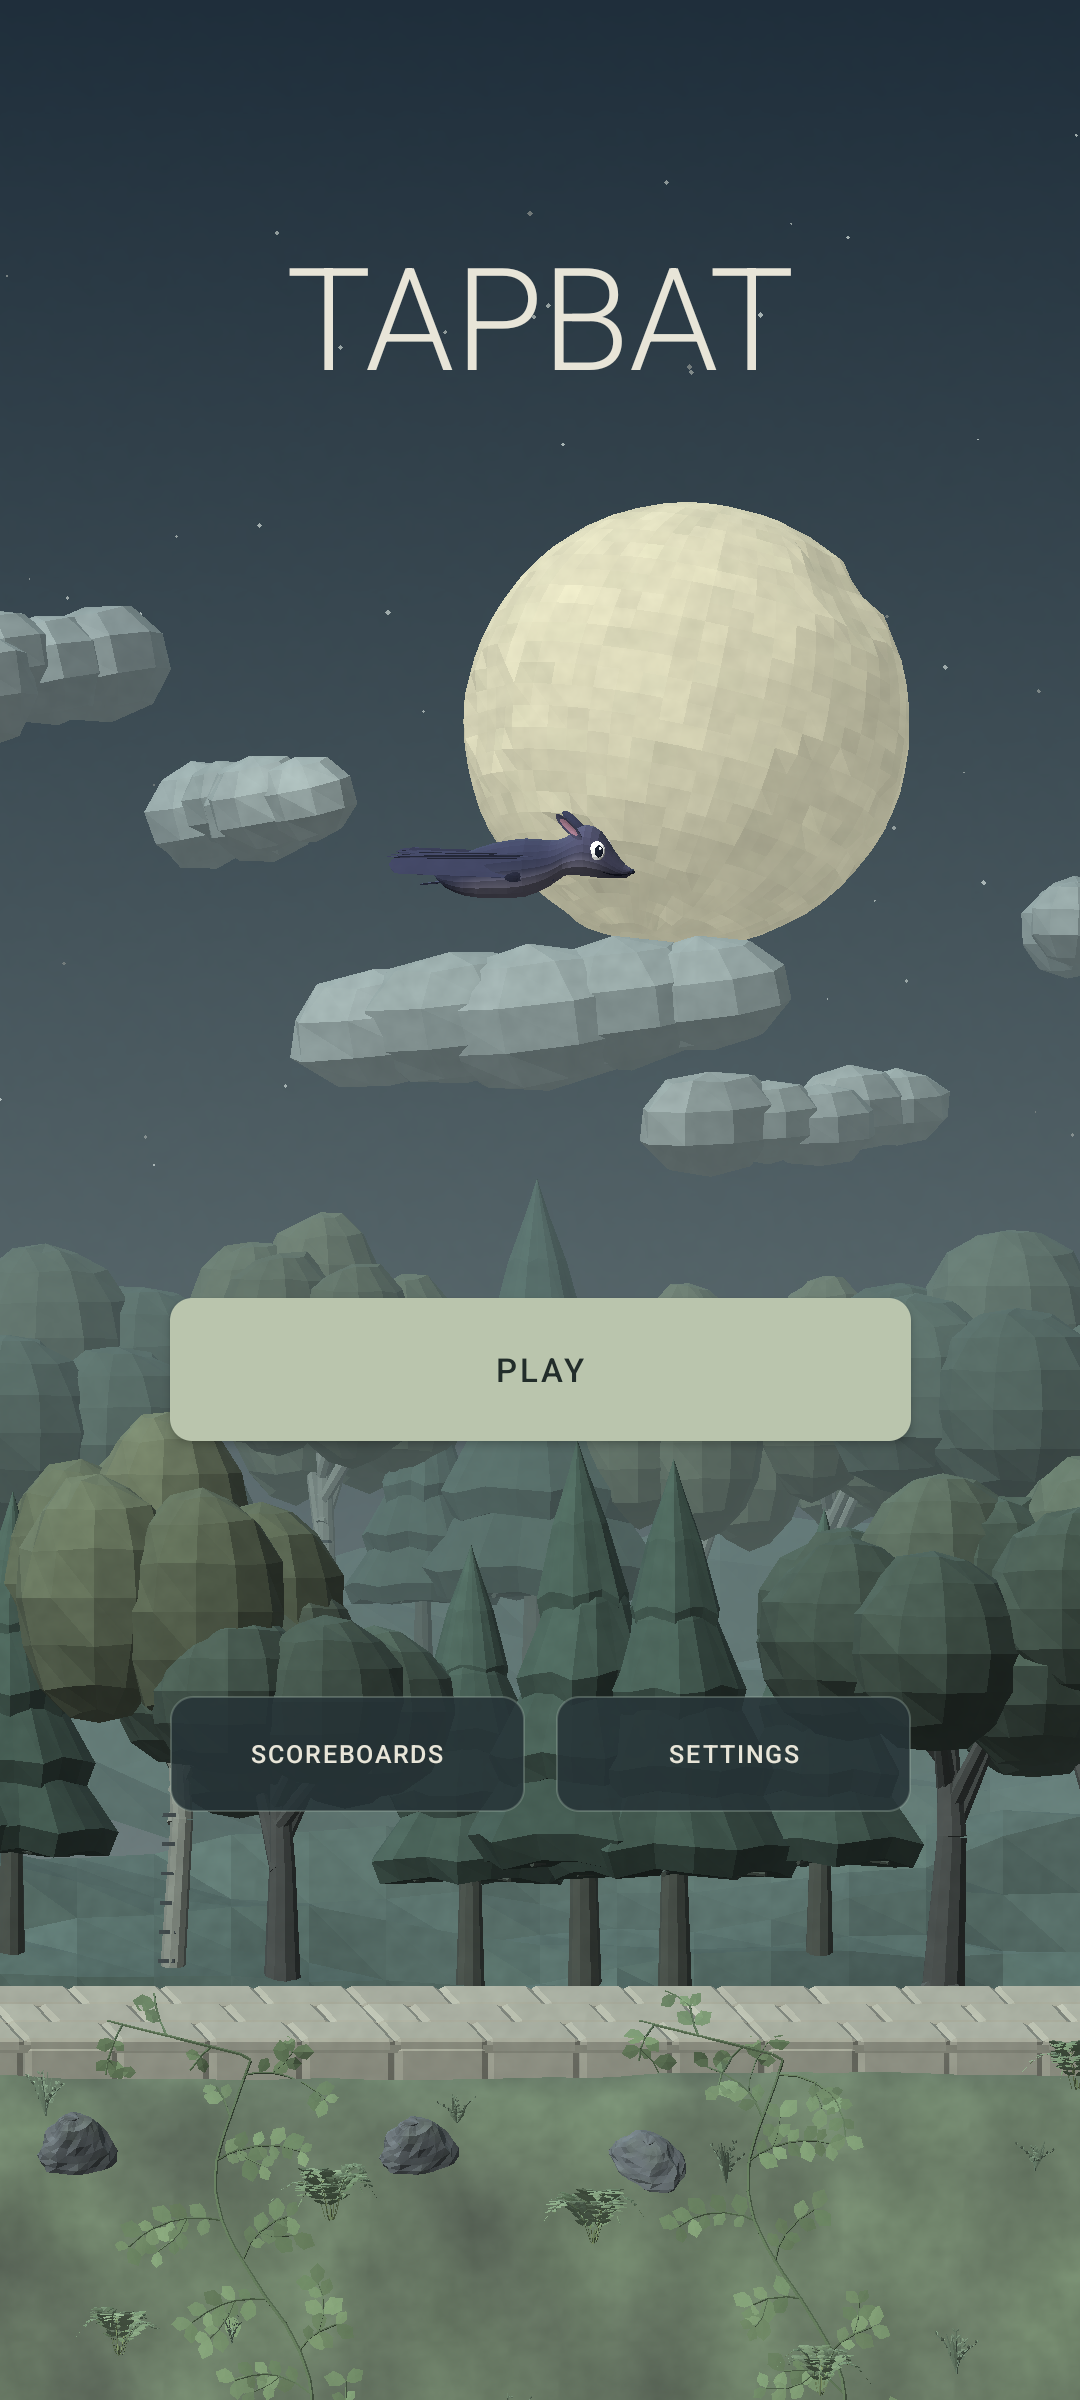
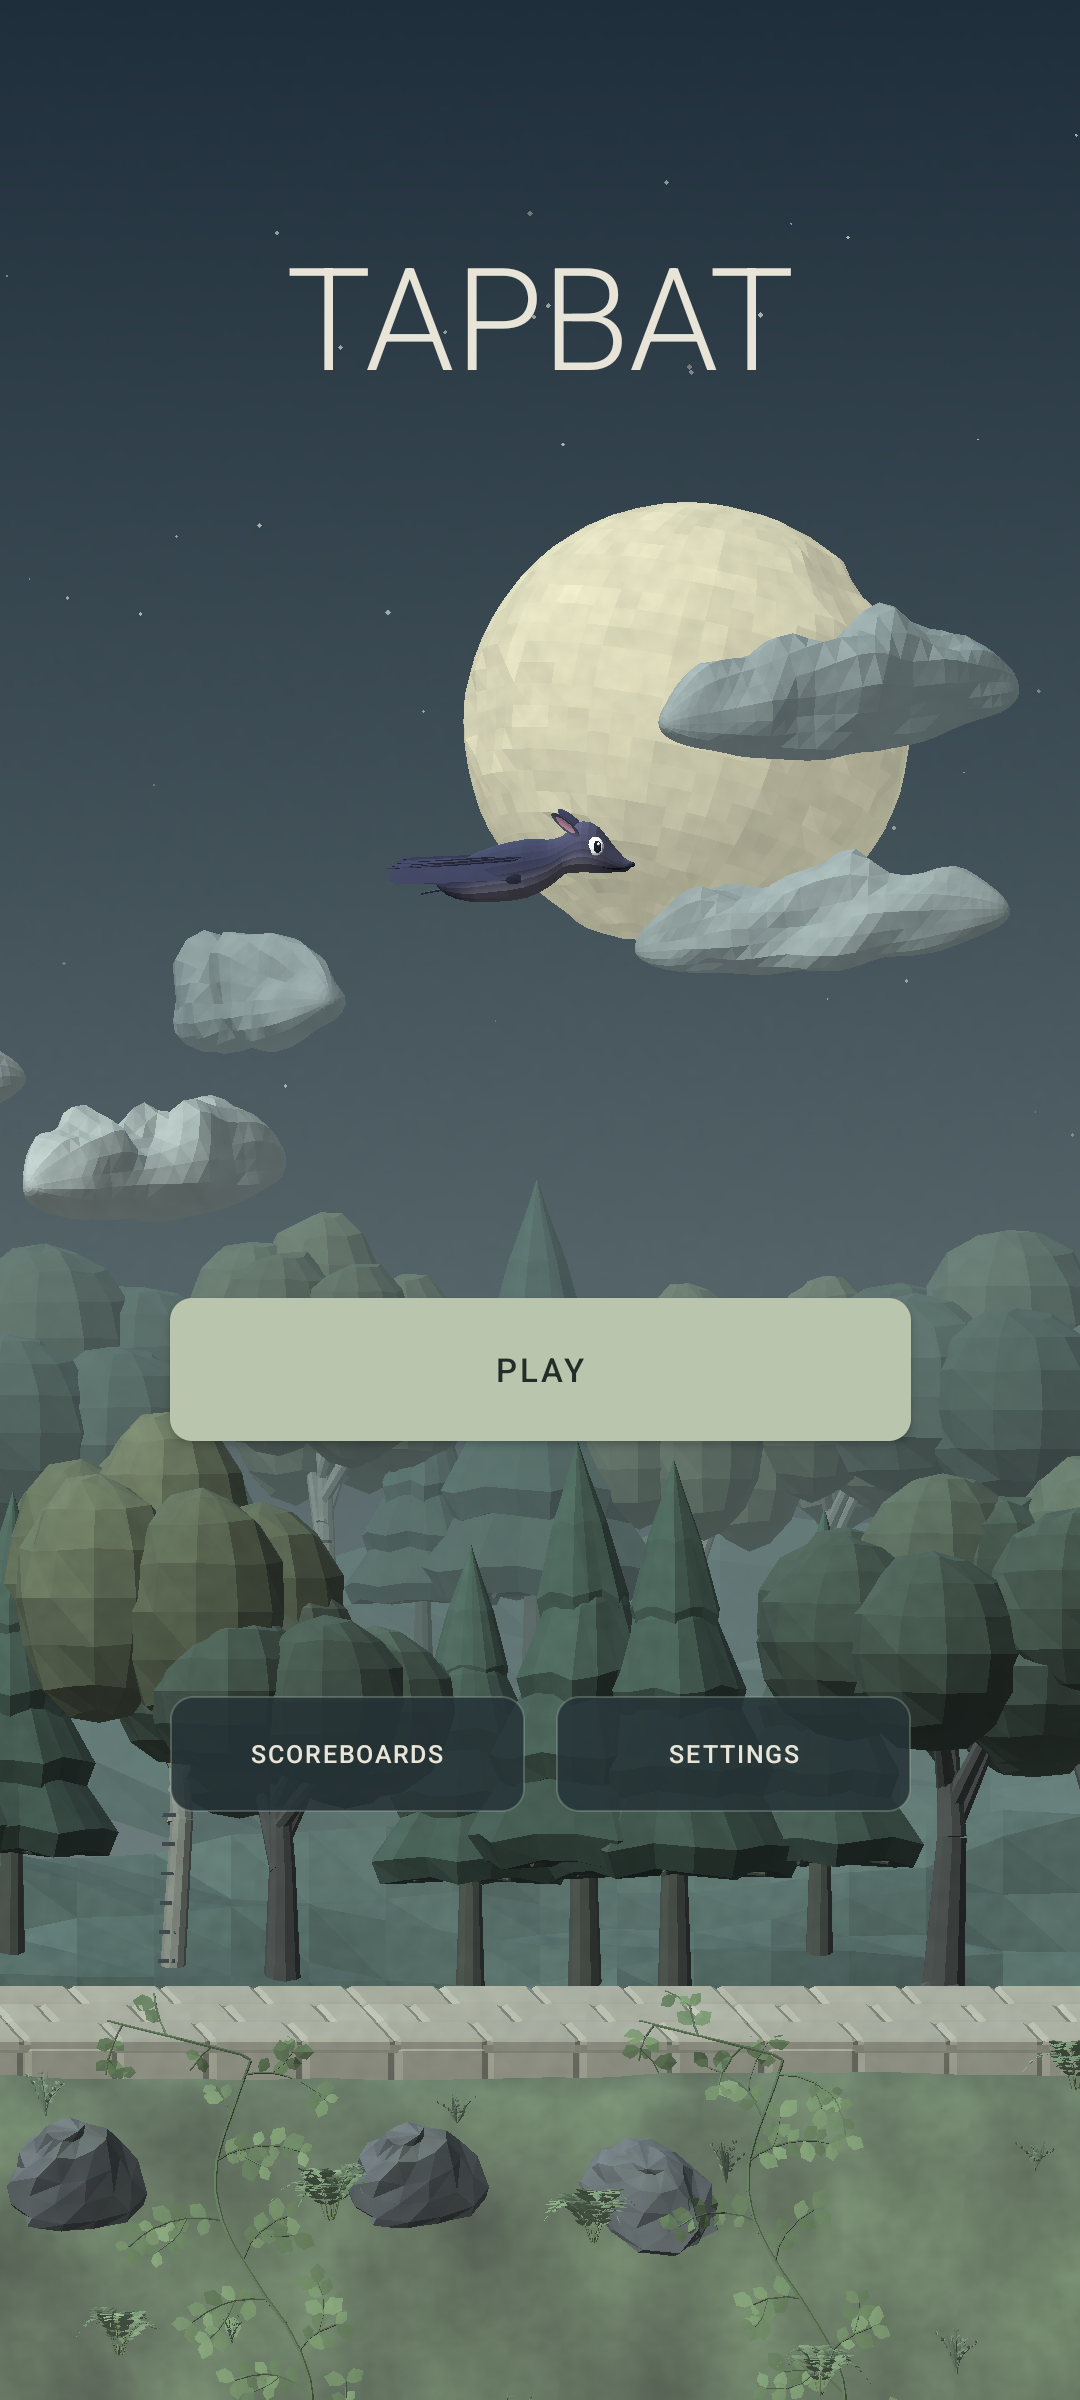
Refresh screenshots and simplify website copy and beta guidance

diff --git a/marketing/social-card.html b/marketing/social-card.html
@@ -24,8 +24,8 @@
 <body><main>
   <div class="brand"><img src="../public/assets/favicon.svg" alt="">TapBat</div>
   <h1>Tap to flap.<br><em>Hold to glide.</em></h1>
-  <p>Find your rhythm in moonlit ruins.<br>One more point to beat your best.</p>
+  <p>Fly through gaps between stone columns.<br>Try to beat your best score.</p>
   <div class="note">ANDROID / IN DEVELOPMENT</div>
-  <figure><img class="capture" src="../public/assets/tapbat-gameplay.png" alt="Actual TapBat gameplay with vine-covered columns and sloping terrain."><figcaption>ACTUAL GAME CAPTURE</figcaption></figure>
+  <figure><img class="capture" src="../public/assets/tapbat-gameplay.png" alt="Actual TapBat gameplay with vine-covered columns and sloping terrain."><figcaption>DEVELOPMENT BUILD</figcaption></figure>
 </main></body>
 </html>

diff --git a/src/styles.css b/src/styles.css
@@ -30,7 +30,7 @@ html {
 }
 body {
   margin: 0;
-  min-width: 320px;
+  min-width: 0;
   -webkit-font-smoothing: antialiased;
 }
 a {

diff --git a/README.md b/README.md
@@ -6,7 +6,7 @@ A standalone, three-page website for TapBat, ready for GitHub Pages:
 - **Privacy:** local storage, Android backup, Google ads and consent, optional Play Games rankings, website hosting, and support.
 - **Beta:** join the Google Group, opt into the closed test, then install through Google Play.
 
-The design follows the simple structure of BarTallyWebsite with TapBat’s own moonlit visual direction. It describes the current `feature/low-poly-3d` Android checkout: tap to flap, hold for 50% slower descent, and release to tuck the wings. Current scenery includes layered forests, sloping terrain, rocks, ferns, and branching vines that wrap the ruins. It does not modify or depend on either Android repository.
+The design follows the simple structure of BarTallyWebsite and describes TapBat’s controls: tap to flap, hold for 50% slower descent, and release to tuck the wings. The screenshots show a recent Android development build with layered forests, sloping terrain, rocks, ferns, and vines. The website does not modify or depend on either Android repository.
 
 All pages are generated as ordinary HTML and CSS. There is no browser JavaScript, backend, analytics, cookie storage, or signup form. Navigation, policy anchors, and the beta FAQ work without JavaScript. The screenshots, icon, and font are local assets.
 
@@ -71,12 +71,12 @@ Do not change the test link to a public-release claim merely because the website
 
 Image sources from the supplied TapBat repository:
 
-- `public/assets/tapbat-home.png` ← `docs/screenshots/vine-cache/menu.png`.
-- `public/assets/tapbat-gameplay.png` ← `docs/screenshots/vine-cache/flight.png`.
+- `public/assets/tapbat-home.png` ← `docs/screenshots/branding-cleanup/menu.png`.
+- `public/assets/tapbat-gameplay.png` ← `docs/screenshots/branding-cleanup/flight.png`.
 - `public/assets/favicon.svg` uses the existing Android `ic_bat.xml` geometry and icon colors.
 - `public/assets/tapbat-social.png` is a browser capture of `marketing/social-card.html`; shared Open Graph and Twitter metadata reference this image.
 
[2 lines of base64/hex data omitted]
 
 To reproduce the social preview, open `marketing/social-card.html` in a browser with a 1200 × 630 CSS-pixel viewport and a device scale factor of 1. Wait for the local font and images to load, then save a viewport screenshot to `public/assets/tapbat-social.png`. Keep the output at exactly 1200 × 630 pixels. The card uses the actual gameplay capture and labels the game as in development; it does not advertise a public launch. The ordinary site build copies this checked-in PNG and needs no browser or extra dependencies.
 
@@ -109,3 +109,10 @@ navigation. Desktop/mobile captures and the sharing image were visually reviewed
 The sharing card uses the current game capture and supplies Open Graph and Twitter
 large-image metadata. Asset dimensions and provenance are recorded in
 `marketing/assets.json`; store and social copy remain editable drafts.
+
+The October 2, 2026 refresh uses the branding-cleanup development captures,
+plain gameplay copy, and an updated sharing image. Beta-exit instructions have
+been removed from the beta and privacy pages. Build and configuration checks
+passed; browser checks covered the desktop home page, all three routes at 390
+and 320 pixels, FAQ expansion, image loading, and navigation. The body now fits
+narrow viewports without a horizontal scrollbar.
